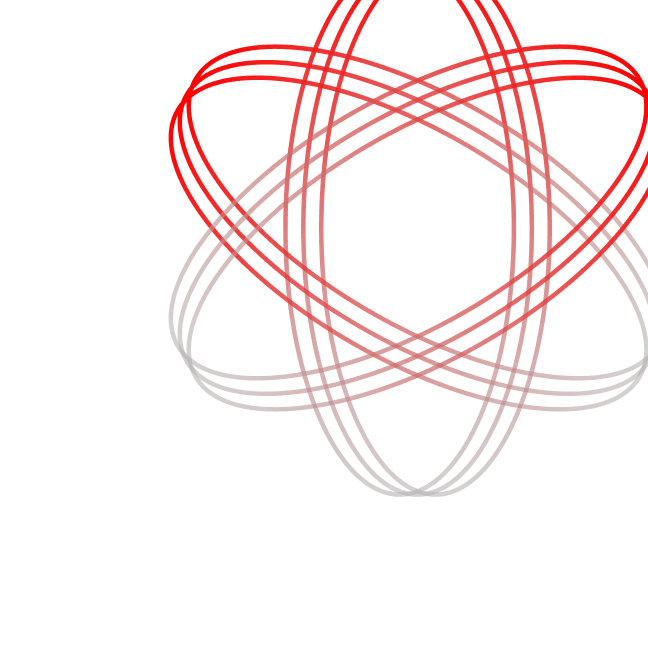
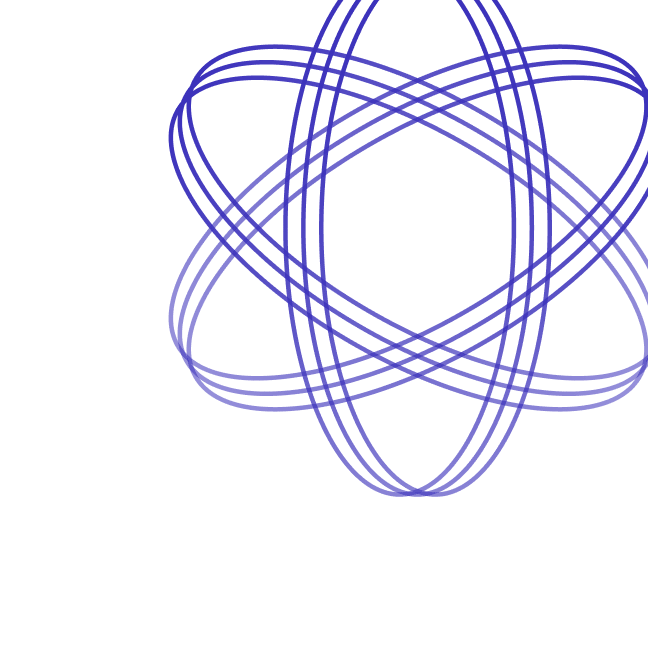
feat(staking): change primary to blue

Changed region(s): [[0.2469, 0.0, 1.0, 0.7716]]

diff --git a/apps/staking-web/src/components/Layout/Navbar/Navbar.tsx b/apps/staking-web/src/components/Layout/Navbar/Navbar.tsx
@@ -148,7 +148,7 @@ const Navbar = observer(() => {
                             }}
                             type="circle"
                             percent={progress}
-                            strokeColor={{ '0%': '#c60000', '100%': '#2e3338' }}
+                            strokeColor={{ '0%': '#3c32bb', '100%': '#2e3338' }}
                         />
                         <div style={{ textAlign: 'center', paddingTop: '10px' }}>{loadingText}</div>
                     </div>
@@ -316,7 +316,7 @@ const Navbar = observer(() => {
                     {isConnected && isAuto ? (
                         <div>
                             Balance:{' '}
-                            <b style={{ color: '#c60000' }}>
+                            <b style={{ color: '#3c32bb' }}>
                                 {balance.data?.formatted.slice(0, 6) || 0}
                             </b>{' '}
                             {balance.data?.symbol}

diff --git a/apps/staking-web/src/assets/css/index.css b/apps/staking-web/src/assets/css/index.css
@@ -25,15 +25,19 @@ body {
     --SL075: #fcfcfc;
     --SL050: #f2f2f3;
     --SL025: #e5e5e6;
-    --S100: #c60000;
-    --S075: #ed0000;
-    --S050: #ff1515;
-    --S025: #ff6363;
+    --S100: #3c32bb;
+    --S075: #473ae8;
+    --S050: #6054f0;
+    --S025: #8279f2;
     --WARN: #fa8c16;
     --SECONDARY: #3c32bb;
     --MUTE_TEXT: #777f88;
     --MUTE_BG: #2e3338;
 }
+
+/* --S100: #c60000;
+--S075: #ed0000;
+--S050: #ff1515; */
 
 .w-100 {
     width: 100%;

diff --git a/libs/wallet-connect-react/src/provider/WalletConnectProvider.tsx b/libs/wallet-connect-react/src/provider/WalletConnectProvider.tsx
@@ -33,7 +33,7 @@ export function WalletConnectProvider({ children }: { children: ReactNode }) {
                 projectId={projectId}
                 ethereumClient={ethereumClient}
                 themeVariables={{
-                    '--w3m-accent-color': '#ed0000',
+                    '--w3m-accent-color': '#473ae8',
                     '--w3m-accent-fill-color': '#fff',
                     '--w3m-background-color': ' #0b0d0f',
                 }}

diff --git a/apps/staking-web/src/components/Governance/ProposalTable.tsx b/apps/staking-web/src/components/Governance/ProposalTable.tsx
@@ -29,7 +29,7 @@ const ProposalTable = observer(({ loading }: { loading: boolean }) => {
                             width: '30px',
                             height: '30px',
                             borderRadius: '50%',
-                            border: '1px solid red',
+                            border: '1px solid var(--S100)',
                             marginRight: '0.5rem',
                         }}
                     />

diff --git a/apps/staking-web/src/components/Staking/StakingHistory/StakingHistory.tsx b/apps/staking-web/src/components/Staking/StakingHistory/StakingHistory.tsx
@@ -86,7 +86,7 @@ const columns: ColumnProps<StakingHistoryLog>[] = [
                             width: '30px',
                             height: '30px',
                             borderRadius: '50%',
-                            border: '1px solid red',
+                            border: '1px solid var(--S100)',
                             marginRight: '0.5rem',
                         }}
                     />

diff --git a/apps/staking-web/src/App.tsx b/apps/staking-web/src/App.tsx
@@ -38,7 +38,7 @@ const App = observer(() => {
                     overlay
                     buttonStyle={{
                         color: '#fff',
-                        backgroundColor: '#c60000',
+                        backgroundColor: '#3c32bb',
                         fontSize: '13px',
                         borderRadius: '30px',
                         padding: '4px 16px',

diff --git a/apps/staking-web/src/components/Validator/Validators/Validators.css b/apps/staking-web/src/components/Validator/Validators/Validators.css
@@ -22,7 +22,7 @@
     width: 2.5rem;
     height: 2.5rem;
     border-radius: 50%;
-    box-shadow: 0 0 0 1px red;
+    box-shadow: 0 0 0 1px var(--S075);
 }
 
 .ant-collapse-item .item-brand b {
